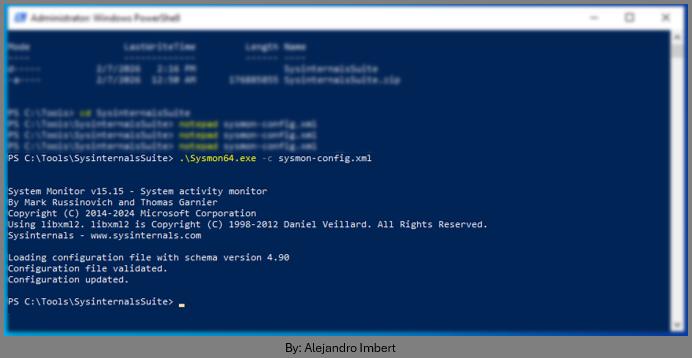
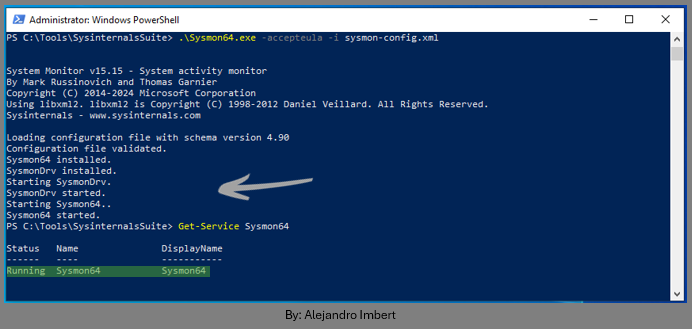
Add doc actualization

Changed region(s): [[0.0, 0.0, 1.0, 1.0]]

diff --git a/docs/05_sysmon_eventid1_investigation.md b/docs/05_sysmon_eventid1_investigation.md
@@ -26,15 +26,13 @@ Reinstallation was completed successfully using:
 - XML schema validation.
 - Service and driver startup without errors.
 
-![Sysmon reinstallation ](../images/doc05/sysmon-reinstallation.png)
-
 Service status verification confirmed:
 
 - Sysmon64 service running.
 
-![Sysmon Reinstallation completed successfully ](../images/doc05/sysmon-running.png)
-
 This confirms that Sysmon was correctly installed and actively monitoring the system.
+
+![Sysmon reinstallation ](../images/doc05/sysmon-reinstallation.png)
 
 ## XML Configuration Adjustments
 
@@ -109,6 +107,6 @@ The logging pipeline (Sysmon → Splunk Universal Forwarder → Splunk Enterpris
 
 While `EventID 1` was not reliably generated in this setup, other Sysmon events validated correct installation, configuration, and data ingestion.
 
-IMAGE
+![EventID1 no results found](../images/doc05/EventID1-no-results-found.png)
 
 For the purposes of this lab, Sysmon was considered functional, and the investigation was documented to record observed limitations before proceeding with alternative event sources.
